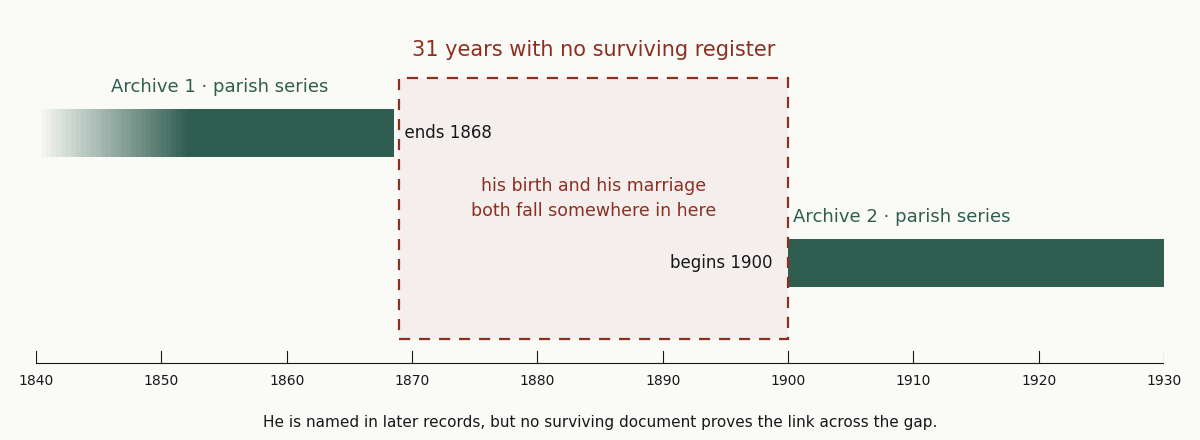
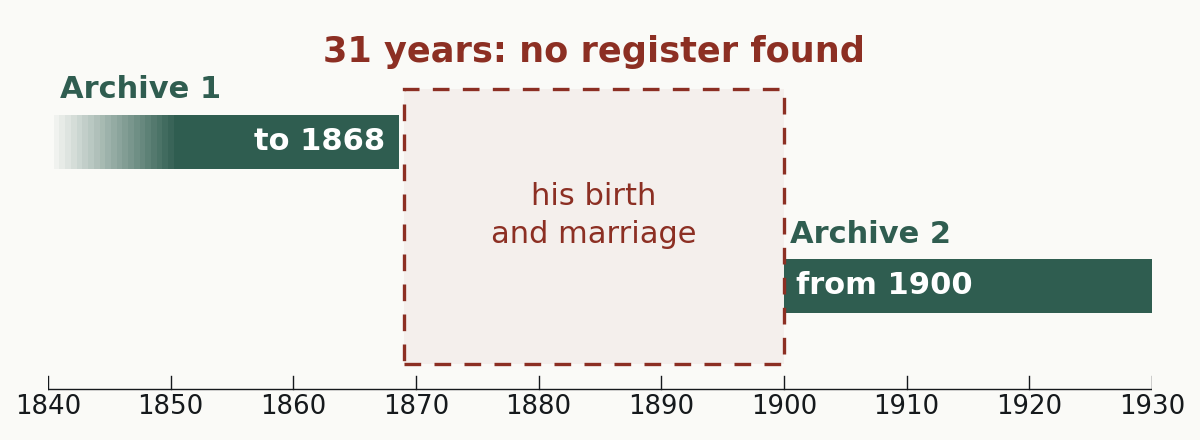
judge r5 fixes: scan-based covers for gift/citizenship, caption fixes (Prillip, 1912), gap diagram moved + mobile version

diff --git a/article-citizenship/index.html b/article-citizenship/index.html
@@ -14,9 +14,9 @@
 <meta property="og:image" content="https://rootmere.com/img/og_citizenship.jpg">
 <meta property="og:image:width" content="1200">
 <meta property="og:image:height" content="630">
-<meta property="og:image:alt" content="The archival record a citizenship-by-descent claim needs — Rootmere">
+<meta property="og:image:alt" content="1908: “I was born in Prillip, Turkey.” The paper keeps the country he left, not the one on today’s map — Rootmere">
 <meta name="twitter:image" content="https://rootmere.com/img/og_citizenship.jpg">
-<script type="application/ld+json">{"@context": "https://schema.org", "@type": "BlogPosting", "headline": "The Record Your Citizenship Claim Lives or Dies On", "description": "A citizenship-by-descent claim stands or falls on archival records from a parish in Central or Eastern Europe: the chain of vital records and proof the ancestor held the citizenship. The lawyer files the claim; we find the record it needs.", "inLanguage": "en", "url": "https://rootmere.com/article-citizenship/", "mainEntityOfPage": {"@type": "WebPage", "@id": "https://rootmere.com/article-citizenship/"}, "image": "https://rootmere.com/img/og_citizenship.jpg", "datePublished": "2026-11-13", "dateModified": "2026-11-13", "author": {"@type": "Organization", "name": "Rootmere", "url": "https://rootmere.com/"}, "publisher": {"@type": "Organization", "name": "Rootmere", "logo": {"@type": "ImageObject", "url": "https://rootmere.com/img/og_default.jpg"}}, "isPartOf": {"@type": "WebSite", "name": "Rootmere", "url": "https://rootmere.com/"}}</script>
+<script type="application/ld+json">{"@context": "https://schema.org", "@type": "BlogPosting", "headline": "The Record Your Citizenship Claim Lives or Dies On", "description": "A citizenship-by-descent claim stands or falls on archival records from a parish in Central or Eastern Europe: the chain of vital records and proof the ancestor held the citizenship. The lawyer files the claim; we find the record it needs.", "inLanguage": "en", "url": "https://rootmere.com/article-citizenship/", "mainEntityOfPage": {"@type": "WebPage", "@id": "https://rootmere.com/article-citizenship/"}, "image": "https://rootmere.com/img/og_citizenship.jpg", "datePublished": "2026-11-14", "dateModified": "2026-11-14", "author": {"@type": "Organization", "name": "Rootmere", "url": "https://rootmere.com/"}, "publisher": {"@type": "Organization", "name": "Rootmere", "logo": {"@type": "ImageObject", "url": "https://rootmere.com/img/og_default.jpg"}}, "isPartOf": {"@type": "WebSite", "name": "Rootmere", "url": "https://rootmere.com/"}}</script>
 <script type="application/ld+json">
 {"@context":"https://schema.org","@type":"ProfessionalService",
  "name":"Rootmere","url":"https://rootmere.com/",
@@ -713,7 +713,7 @@ li[data-row].on .rowno{background:var(--seal);color:var(--paper)}
   <p class="kicker">When the goal is a passport<span class="readtime">5 min read</span></p>
   <h1>A lawyer can file the claim.</h1>
   <p class="dek">Someone has to find the record first.</p>
-  <figure class="art-cover"><img src="/img/og_citizenship.jpg" width="1200" height="538" alt="The archival record a citizenship-by-descent claim needs — Rootmere" fetchpriority="high"><figcaption>The archival record a citizenship-by-descent claim needs</figcaption></figure>
+  <figure class="art-cover"><img src="/img/og_citizenship.jpg" width="1200" height="538" alt="1908: “I was born in Prillip, Turkey.” The paper keeps the country he left, not the one on today’s map — Rootmere" fetchpriority="high"><figcaption>1908: “I was born in Prillip, Turkey.” The paper keeps the country he left, not the one on today’s map</figcaption></figure>
   <p class="lede">A citizenship-by-descent claim feels like a legal problem, and most of it is handled like one: forms, apostilles, a solicitor who knows the ministry. But the claim does not stand on the law. It stands on a single archival document: the birth or marriage record of an ancestor, kept in one parish or archive in Central or Eastern Europe, often under a spelling you would not recognise, sometimes in a country that no longer exists. The lawyer files it. Until it is found, there is nothing to file.</p>
 </div></header>
 <div class="toc" role="navigation" aria-label="In this article"><div class="w narrow"><details open><summary>In this article · 3 parts</summary><ol><li><a href="#stall">The hard part is not the law. It is the missing record.</a></li><li><a href="#needs">An unbroken chain, and proof the citizenship was real</a></li><li><a href="#border">The border moved. The citizenship did not.</a></li></ol></details></div></div>
@@ -750,7 +750,7 @@ li[data-row].on .rowno{background:var(--seal);color:var(--paper)}
   <p>Between the wars, several of these states covered land that today sits inside other countries. A person born a citizen in that period was a citizen regardless of which flag now flies over the village. The claim travels with the citizenship that existed then, not the map as it is drawn now.</p>
 
   <p>For families whose roots lie in those shifted borderlands, this is the whole point. What decides the case is not where the place appears in an atlas today, but what the ancestor was recorded as in, say, 1925: the residence in a pre-war register, the entry in a parish book kept while the old administration was still in place. The village may answer to a different country and a different language now. The record does not care.</p>
-<figure class="fig fig-tall"><img src="/img/declaration_troiko1908.jpg" width="800" height="1147" alt="Declaration of Intention, San Francisco, 20 January 1908: Kristo Troiko, born in Prilip, Turkey, renounces allegiance to Sultan Abdul Hamid II." loading="lazy"><figcaption>San Francisco, January 1908. Kristo Troiko gives his birthplace as Prilip, Turkey, and renounces allegiance to Sultan Abdul Hamid II. Prilep has been in North Macedonia for decades, but this paper records what he was on the day he signed it, and that is the question a claim asks. Source: Wikimedia Commons, public domain.</figcaption></figure>
+<figure class="fig fig-tall"><img src="/img/declaration_troiko1908.jpg" width="800" height="1147" alt="Declaration of Intention, San Francisco, 20 January 1908: Kristo Troiko, born in Prillip, Turkey, renounces allegiance to Sultan Abdul Hamid II." loading="lazy"><figcaption>San Francisco, January 1908. Kristo Troiko gives his birthplace as Prillip, Turkey, and renounces allegiance to Sultan Abdul Hamid II. Prilep left Ottoman rule in 1912 and is in North Macedonia today, but this paper records what he was on the day he signed it, and that is the question a claim asks. Source: Wikimedia Commons, public domain.</figcaption></figure>
 
 
   <div class="honest">

diff --git a/article-gap/index.html b/article-gap/index.html
@@ -16,7 +16,7 @@
 <meta property="og:image:height" content="630">
 <meta property="og:image:alt" content="A page of an 1811 revision list, households and ages by hand — Rootmere">
 <meta name="twitter:image" content="https://rootmere.com/img/og_gap.jpg">
-<script type="application/ld+json">{"@context": "https://schema.org", "@type": "BlogPosting", "headline": "What to Do When Your Family Tree Hits a Gap", "description": "What to do when a parish register series simply stops: the four kinds of gap, six ways round them, and why a named gap belongs in a family history.", "inLanguage": "en", "url": "https://rootmere.com/article-gap/", "mainEntityOfPage": {"@type": "WebPage", "@id": "https://rootmere.com/article-gap/"}, "image": "https://rootmere.com/img/og_gap.jpg", "datePublished": "2026-11-13", "dateModified": "2026-11-13", "author": {"@type": "Organization", "name": "Rootmere", "url": "https://rootmere.com/"}, "publisher": {"@type": "Organization", "name": "Rootmere", "logo": {"@type": "ImageObject", "url": "https://rootmere.com/img/og_default.jpg"}}, "isPartOf": {"@type": "WebSite", "name": "Rootmere", "url": "https://rootmere.com/"}}</script>
+<script type="application/ld+json">{"@context": "https://schema.org", "@type": "BlogPosting", "headline": "What to Do When Your Family Tree Hits a Gap", "description": "What to do when a parish register series simply stops: the four kinds of gap, six ways round them, and why a named gap belongs in a family history.", "inLanguage": "en", "url": "https://rootmere.com/article-gap/", "mainEntityOfPage": {"@type": "WebPage", "@id": "https://rootmere.com/article-gap/"}, "image": "https://rootmere.com/img/og_gap.jpg", "datePublished": "2026-11-14", "dateModified": "2026-11-14", "author": {"@type": "Organization", "name": "Rootmere", "url": "https://rootmere.com/"}, "publisher": {"@type": "Organization", "name": "Rootmere", "logo": {"@type": "ImageObject", "url": "https://rootmere.com/img/og_default.jpg"}}, "isPartOf": {"@type": "WebSite", "name": "Rootmere", "url": "https://rootmere.com/"}}</script>
 <script type="application/ld+json">
 {"@context":"https://schema.org","@type":"ProfessionalService",
  "name":"Rootmere","url":"https://rootmere.com/",
@@ -716,7 +716,6 @@ li[data-row].on .rowno{background:var(--seal);color:var(--paper)}
   <p class="dek">What to do when the registers simply stop.</p>
   <figure class="art-cover"><img src="/img/og_gap.jpg" width="1200" height="538" alt="A page of an 1811 revision list, households and ages by hand — Rootmere" fetchpriority="high"><figcaption>A page of an 1811 revision list, households and ages by hand</figcaption></figure>
   <p class="lede">In one parish we work with, the church series available in one archive ends in 1868, and the series in another archive begins in 1900. Between them lies a hole thirty-one years wide — and a birth and a marriage we need fall straight into it. This happens constantly, to everyone, and almost nobody writes down what to do about it. So here is what we actually do, in the order we do it, including the part where we give up.</p>
-<figure class="fig"><img src="/img/gap_1868_1900.png" width="1200" height="440" alt="Diagram: one archive's parish series ends in 1868, another archive's begins in 1900; a man's birth and marriage fall in the 31-year gap." loading="lazy"><figcaption>The working note above, drawn out. One archive's series stops in 1868, the next archive picks up in 1900, and the two events that would prove the link both fall in between. Diagram: Rootmere.</figcaption></figure>
 
 </div></header>
 <div class="toc" role="navigation" aria-label="In this article"><div class="w narrow"><details open><summary>In this article · 3 parts</summary><ol><li><a href="#why">A gap is a fact about the archive, not about your search</a></li><li><a href="#do">Six ways round, roughly in order of how often they work</a></li><li><a href="#our-own-hole-and-what-it-cost">Our own hole, and what it cost</a></li></ol></details></div></div>
@@ -764,6 +763,8 @@ li[data-row].on .rowno{background:var(--seal);color:var(--paper)}
   <p class="eyebrow">A worked example</p>
   <h2>Our own hole, and what it cost</h2>
   <p>The parish we mentioned at the top: one archive holds the series to 1868, another picks it up in 1900. Into that gap fall the birth of one man and his marriage. We know he existed — he is named as a father in his son's baptism of 1901, and the surname, village and the patronymic of the next generation all line up. What we do not have is the entry that would prove his parentage outright.</p>
+<figure class="fig"><picture><source media="(max-width:700px)" srcset="/img/gap_1868_1900_m.png" width="800" height="640"><img src="/img/gap_1868_1900.png" width="1200" height="440" alt="Diagram: one archive's parish series runs to 1868, another archive's starts in 1900; his birth and marriage fall in the 31 years between, where no register has been found." loading="lazy"></picture><figcaption>The hole, drawn out. One archive stops in 1868, the next starts in 1900, and his birth and marriage both fall in between. Diagram: Rootmere.</figcaption></figure>
+
   <p>So on the family chart he is there, and he carries a note saying the link is not proven by a document. Nine other generations in that line are cited to file and folio. That one is not, and it says so. We would rather hand over a chart with one honest asterisk than a clean one we cannot stand behind.</p>
 </div></section>
 

diff --git a/article-gift/index.html b/article-gift/index.html
@@ -14,7 +14,7 @@
 <meta property="og:image" content="https://rootmere.com/img/og_gift.jpg">
 <meta property="og:image:width" content="1200">
 <meta property="og:image:height" content="630">
-<meta property="og:image:alt" content="A family history as a gift — Rootmere">
+<meta property="og:image:alt" content="A 1944 Certificate of Arrival: Marja Filipow, New York, 14 May 1935, SS Kościuszko, her name still spelled the Polish way — Rootmere">
 <meta name="twitter:image" content="https://rootmere.com/img/og_gift.jpg">
 <script type="application/ld+json">{"@context": "https://schema.org", "@type": "BlogPosting", "headline": "A Gift That Was Theirs Before They Were Born", "description": "What to give someone who already has everything — and why a family history grips people who never once thought about their ancestors.", "inLanguage": "en", "url": "https://rootmere.com/article-gift/", "mainEntityOfPage": {"@type": "WebPage", "@id": "https://rootmere.com/article-gift/"}, "image": "https://rootmere.com/img/og_gift.jpg", "datePublished": "2026-11-14", "dateModified": "2026-11-14", "author": {"@type": "Organization", "name": "Rootmere", "url": "https://rootmere.com/"}, "publisher": {"@type": "Organization", "name": "Rootmere", "logo": {"@type": "ImageObject", "url": "https://rootmere.com/img/og_default.jpg"}}, "isPartOf": {"@type": "WebSite", "name": "Rootmere", "url": "https://rootmere.com/"}}</script>
 <script type="application/ld+json">
@@ -711,10 +711,10 @@ li[data-row].on .rowno{background:var(--seal);color:var(--paper)}
 </div></nav>
 
 <header class="hero art-hero"><div class="w narrow">
-  <p class="kicker">Why this matters at all<span class="readtime">6 min read</span></p>
+  <p class="kicker">Why this matters at all<span class="readtime">5 min read</span></p>
   <h1>What do you give someone who already has everything?</h1>
   <p class="dek">Something that was theirs before they were born.</p>
-  <figure class="art-cover"><img src="/img/og_gift.jpg" width="1200" height="538" alt="A family history as a gift — Rootmere" fetchpriority="high"><figcaption>A family history as a gift</figcaption></figure>
+  <figure class="art-cover"><img src="/img/og_gift.jpg" width="1200" height="538" alt="A 1944 Certificate of Arrival: Marja Filipow, New York, 14 May 1935, SS Kościuszko, her name still spelled the Polish way — Rootmere" fetchpriority="high"><figcaption>A 1944 Certificate of Arrival: Marja Filipow, New York, 14 May 1935, SS Kościuszko, her name still spelled the Polish way</figcaption></figure>
   <p class="lede">There is an age at which people stop wanting objects. They have the sweater. They will politely accept another bottle. And the person choosing the gift knows it — which is why the search gets harder every year, and why so many people end up buying something they already know will be opened, admired for four seconds, and put in a drawer. This is about the one category that escapes that, and about why it works even on people who have never once thought about their ancestors.</p>
 </div></header>
 <div class="toc" role="navigation" aria-label="In this article"><div class="w narrow"><details open><summary>In this article · 4 parts</summary><ol><li><a href="#problem">Most gifts are about the giver</a></li><li><a href="#interesting">Why it grips someone who was not interested</a></li><li><a href="#one-half-of-this-cannot-be-bought-later">One half of this cannot be bought later</a></li><li><a href="#practical">How a gift like this actually works</a></li></ol></details></div></div>
@@ -732,7 +732,6 @@ li[data-row].on .rowno{background:var(--seal);color:var(--paper)}
   <div class="honest">
     <h3>What people say when they open it</h3>
     <p style="margin:0;color:var(--ink-2)">In our experience it is almost never "thank you, it's lovely". It is a question. <i>Where did you find this? Is that really his handwriting? Is that our name spelled like that?</i> Then they go and get their reading glasses. The gift is not the object; it is the hour that follows, and the second hour a week later when they call to tell you what they remembered afterwards.</p>
-<figure class="fig"><img src="/img/arrival_filipow1935.jpg" width="1200" height="637" alt="US Certificate of Arrival, 1944: Marja Filipow, port of entry New York, 14 May 1935, arrived on the SS Kosciuszko." loading="lazy"><figcaption>A Certificate of Arrival from 1944: Marja Filipow landed in New York on 14 May 1935 from the SS Kościuszko. The court indexed her as Mary; here she is still Marja, spelled the Polish way. "Is that our name spelled like that?" is usually the first question. Source: U.S. District Court records via DPLA and Wikimedia Commons, public domain.</figcaption></figure>
 
   </div>
 </div></section>
